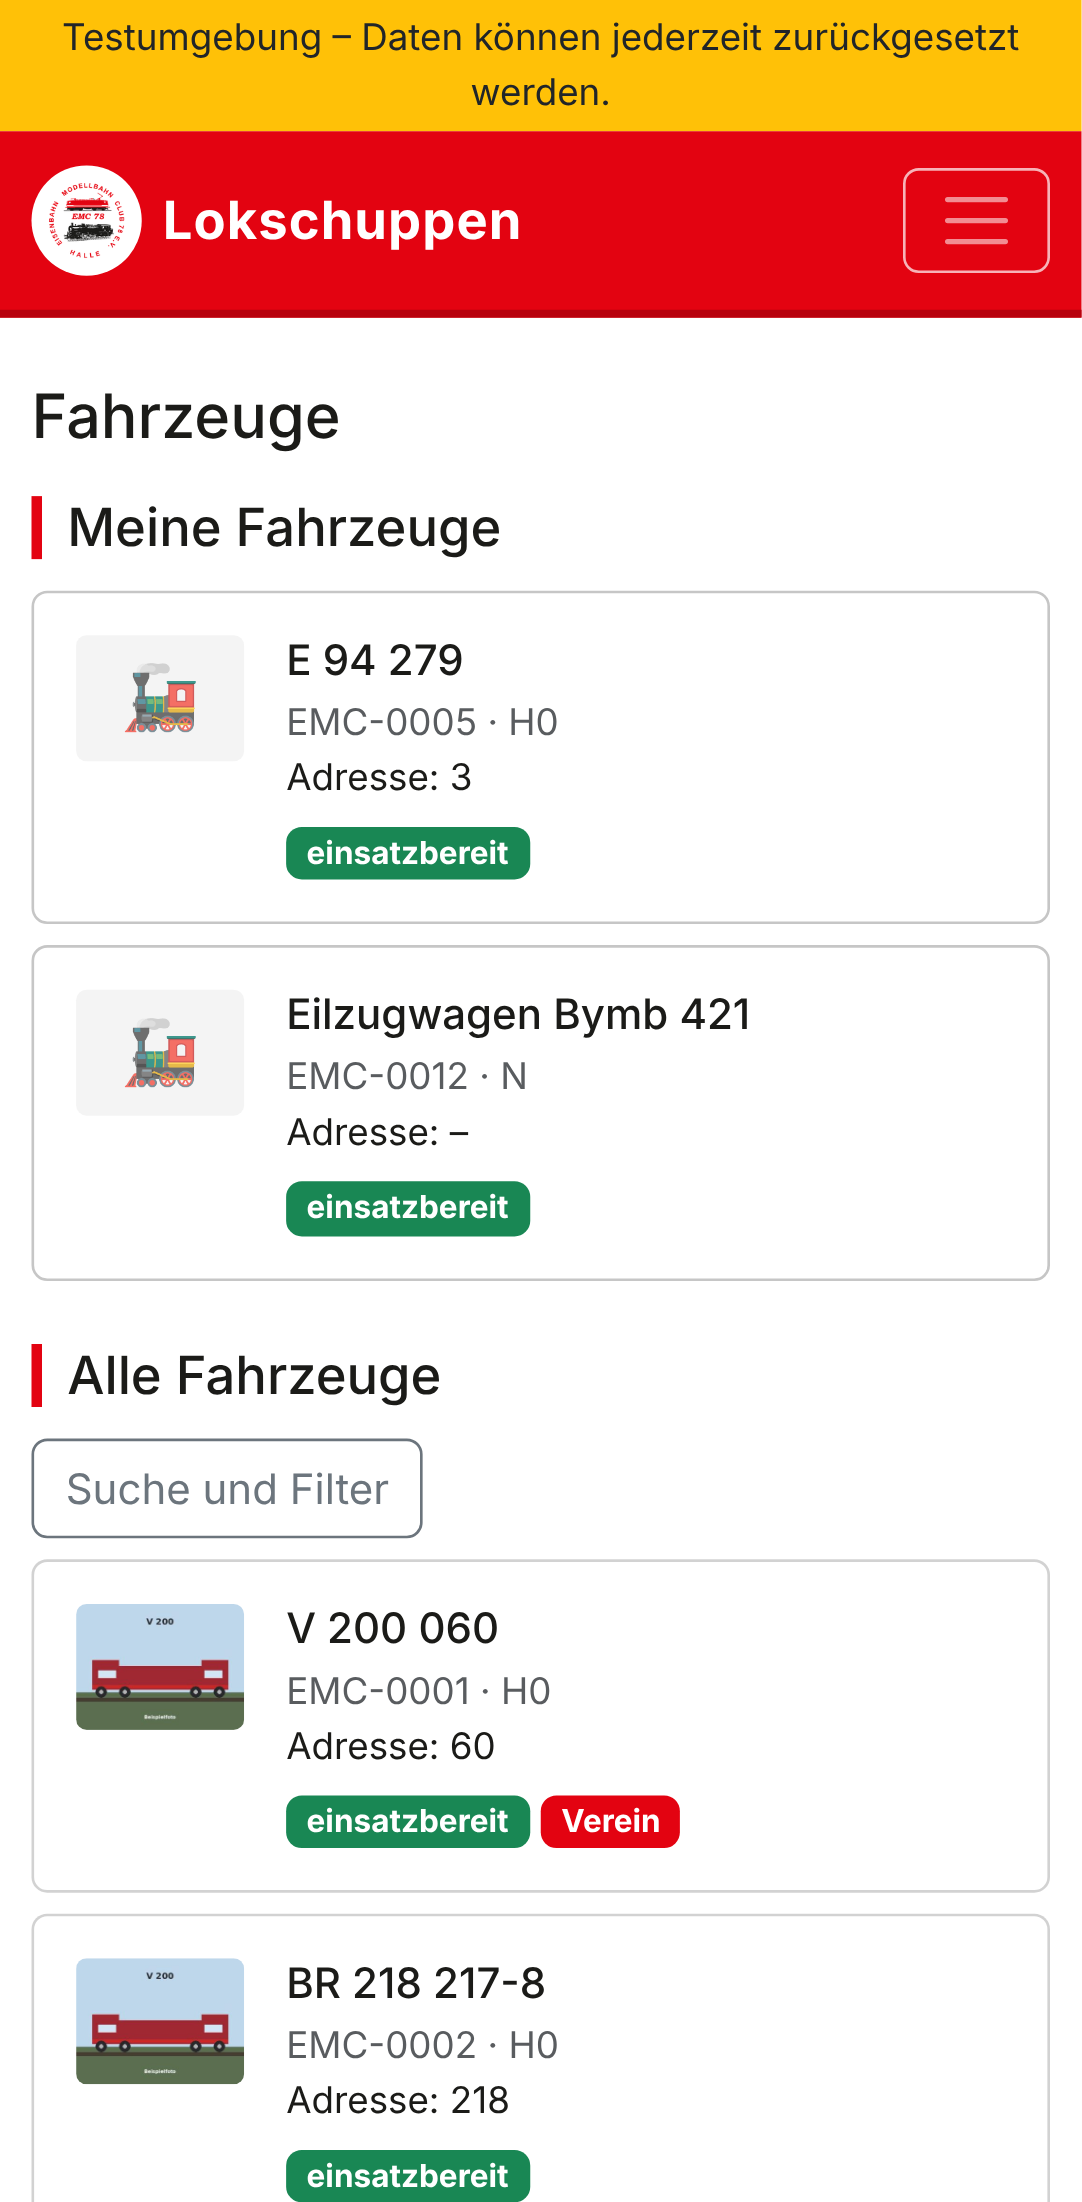
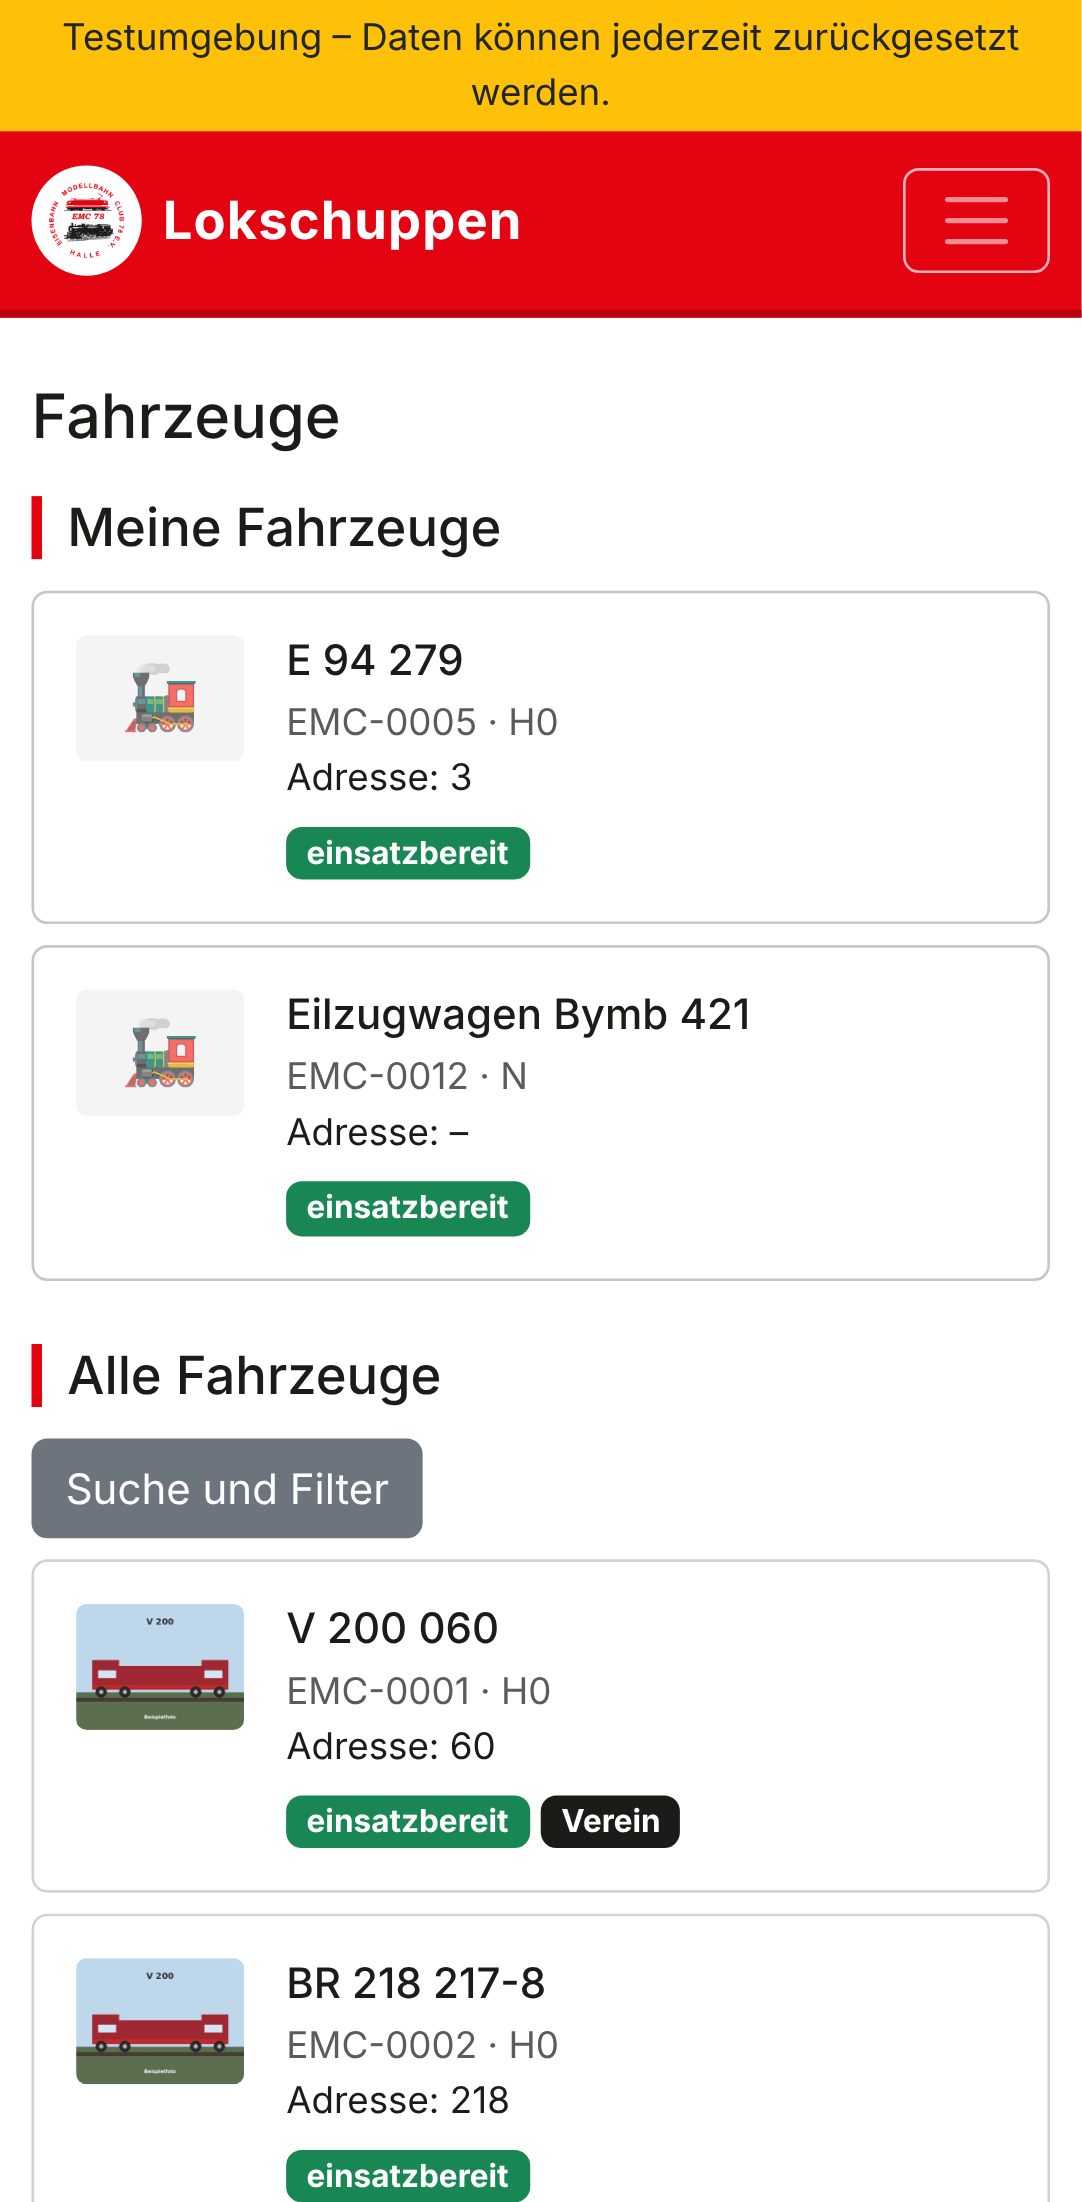
Vereinsgestaltung nachgebessert: neutrale Verein-Badges, kompaktere Handy-Anmeldung
- "Verein" und "Titelbild" als text-bg-dark statt Vereinsrot (keine Verwechslung mit "defekt")
- Anmeldeseite auf Handys kompakter (kleineres Logo und Slogan, Namenszeile ausgeblendet, engere Abstände)
- Alternativtext des Logos nutzt den App-Namen
- Screenshots neu erzeugt

Claude-Session: https://claude.ai/code/session_01WPjn12EeTpMLbw1UrLaWZi

Changed region(s): [[0.0305, 0.6485, 0.3965, 0.7103], [0.488, 0.8029, 0.6405, 0.8647]]

diff --git a/public/assets/app.css b/public/assets/app.css
@@ -47,6 +47,7 @@ main { padding-bottom: 2rem; flex: 1 0 auto; }
 }
 .btn-link { --bs-btn-color: var(--emc-rot-dunkel); --bs-btn-hover-color: var(--emc-schwarz); }
 .text-bg-primary { background-color: var(--emc-rot) !important; color: #fff !important; }
+.text-bg-dark { background-color: var(--emc-schwarz) !important; color: #fff !important; }
 .text-primary { color: var(--emc-rot-dunkel) !important; }
 .form-control:focus, .form-select:focus { border-color: var(--emc-rot); box-shadow: 0 0 0 .25rem rgba(var(--emc-rot-rgb), .25); }
 .btn:focus-visible, .nav-link:focus-visible, .page-link:focus-visible, .form-check-input:focus { box-shadow: 0 0 0 .25rem rgba(var(--emc-rot-rgb), .35); }
@@ -106,4 +107,16 @@ body.login-seite .emc-fuss { background: rgba(244, 244, 244, .92); }
     .login-logo { width: 170px; }
     .login-slogan { width: 200px; margin: .5rem auto .25rem; }
     .login-name { font-size: 1rem; }
+}
+
+/* Handy: Anmeldekarte möglichst weit oben, Schaltfläche ohne Scrollen erreichbar */
+@media (max-width: 575.98px) {
+    .swoosh { height: 64px; }
+    .login-kopf { margin-top: -1.5rem; margin-bottom: .5rem; }
+    .login-logo { width: 130px; }
+    .login-slogan { width: auto; height: 90px; margin: .25rem auto 0; }
+    .login-name { display: none; }
+    .login-karte .card-body { padding: 1rem; }
+    .login-karte h1 { font-size: 1.25rem; margin-bottom: .75rem !important; }
+    .login-karte .mb-3 { margin-bottom: .6rem !important; }
 }

diff --git a/templates/auth/login.php b/templates/auth/login.php
@@ -2,7 +2,7 @@
 <div class="row justify-content-center">
     <div class="col-md-6 col-lg-4">
         <div class="text-center login-kopf">
-            <span class="login-logo"><img src="<?= e(url('assets/marke/logo-512.png')) ?>" alt="EMC 78 Halle – Eisenbahn Modellbahn Club 78 e.V." width="512" height="512"></span>
+            <span class="login-logo"><img src="<?= e(url('assets/marke/logo-512.png')) ?>" alt="<?= e($app_name ?? 'EMC 78 Lokschuppen') ?>" width="512" height="512"></span>
             <img class="login-slogan" src="<?= e(url('assets/marke/slogan-600.png')) ?>" alt="Die Modellbahnfamilie" width="599" height="371">
             <p class="login-name h5 mb-0"><?= e($app_name ?? '') ?></p>
         </div>

diff --git a/templates/fahrzeuge/tab_dateien.php b/templates/fahrzeuge/tab_dateien.php
@@ -40,7 +40,7 @@ $loeschenForm = function (array $d) use ($csrf): string {
                     <div class="card-body p-2 small">
                         <div class="text-truncate" title="<?= e((string) $f['titel']) ?>"><?= e((string) $f['titel']) ?></div>
                         <?php if ((int) $f['id'] === (int) $fahrzeug['titelbild_dokument_id']): ?>
-                            <span class="badge text-bg-primary">&#9733; Titelbild</span>
+                            <span class="badge text-bg-dark">&#9733; Titelbild</span>
                         <?php endif; ?>
                         <?php if ($bearbeiten): ?>
                             <div class="d-flex gap-1 mt-1">

diff --git a/templates/fahrzeuge/_labels.php b/templates/fahrzeuge/_labels.php
@@ -6,7 +6,7 @@ $statusKlassen = ['einsatzbereit' => 'success', 'in_wartung' => 'warning', 'defe
 $epochen = ['I', 'II', 'III', 'IV', 'V', 'VI'];
 $eigentumBadge = function (array $fz): string {
     if ($fz['eigentuemer_person_id'] === null) {
-        return '<span class="badge text-bg-primary">Verein</span>';
+        return '<span class="badge text-bg-dark">Verein</span>';
     }
     return '<span class="badge text-bg-warning">extern – Eigentum von ' . e((string) $fz['eigentuemer_name']) . '</span>';
 };
